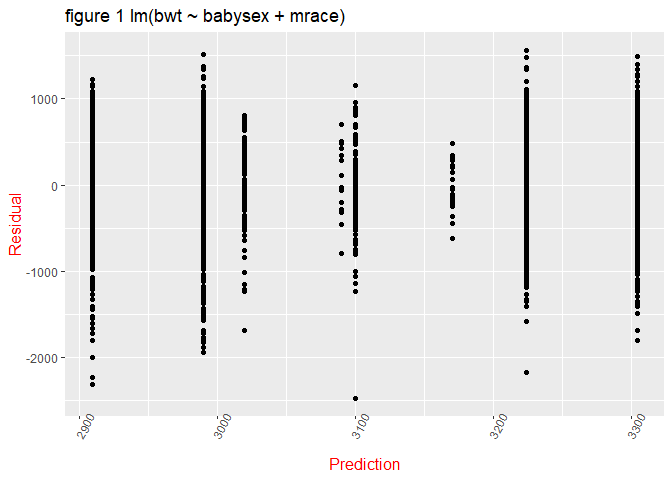
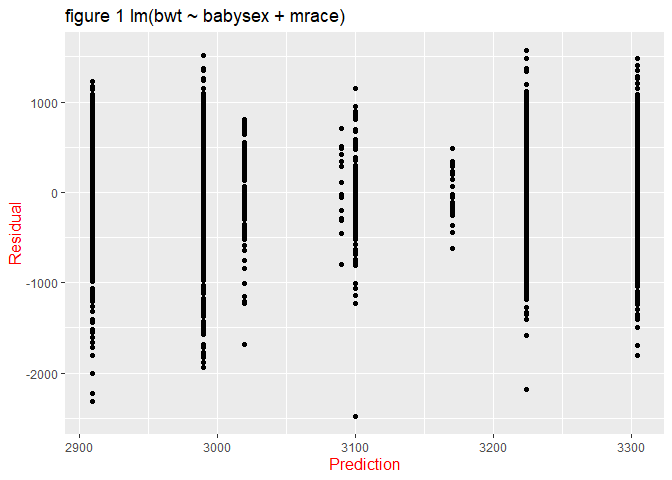
update the label of plot

diff --git a/p8105_hw6_yh2736.md b/p8105_hw6_yh2736.md
@@ -115,8 +115,7 @@ birth_weight_dataset %>%
     axis.title.x = element_text(size = 12, 
                                 color = "red"),
     axis.title.y = element_text(size = 12, 
-                                color = "red"),
-    axis.text.x = element_text(angle = 60)
+                                color = "red")
   ) +
   labs(
     title = "figure 1 lm(bwt ~ babysex + mrace) "
@@ -141,8 +140,7 @@ birth_weight_dataset %>%
     axis.title.x = element_text(size = 12, 
                                 color = "red"),
     axis.title.y = element_text(size = 12, 
-                                color = "red"),
-    axis.text.x = element_text(angle = 60)
+                                color = "red")
   ) +
   labs(
     title = "figure 2 lm(bwt ~ blength + gaweeks) "
@@ -167,8 +165,7 @@ birth_weight_dataset %>%
     axis.title.x = element_text(size = 12, 
                                 color = "red"),
     axis.title.y = element_text(size = 12, 
-                                color = "red"),
-    axis.text.x = element_text(angle = 60)
+                                color = "red")
   ) +
   labs(
     title = "figure 3 lm(bwt ~ bhead * blength * babysex) "
@@ -335,7 +332,7 @@ mean_log_beta0_mult_beta1 <- mean(estimate_df$log_beta0_mult_beta1, na.rm = TRUE
 mean_r_squared <- mean(estimate_df$r_squared, na.rm = TRUE)
 ```
 
-THe 95% confidence interval for r^2 is from 0.9114704 to 0.9110668.
+*THe 95% confidence interval for r^2 is from 0.9114704 to 0.9110668.*
 
-THe 95% confidence interval for log(β<sup>0∗β</sup>1) is from 0.874595
-to 0.8741171.
+*THe 95% confidence interval for log(β<sup>0∗β</sup>1) is from 0.874595
+to 0.8741171.*
